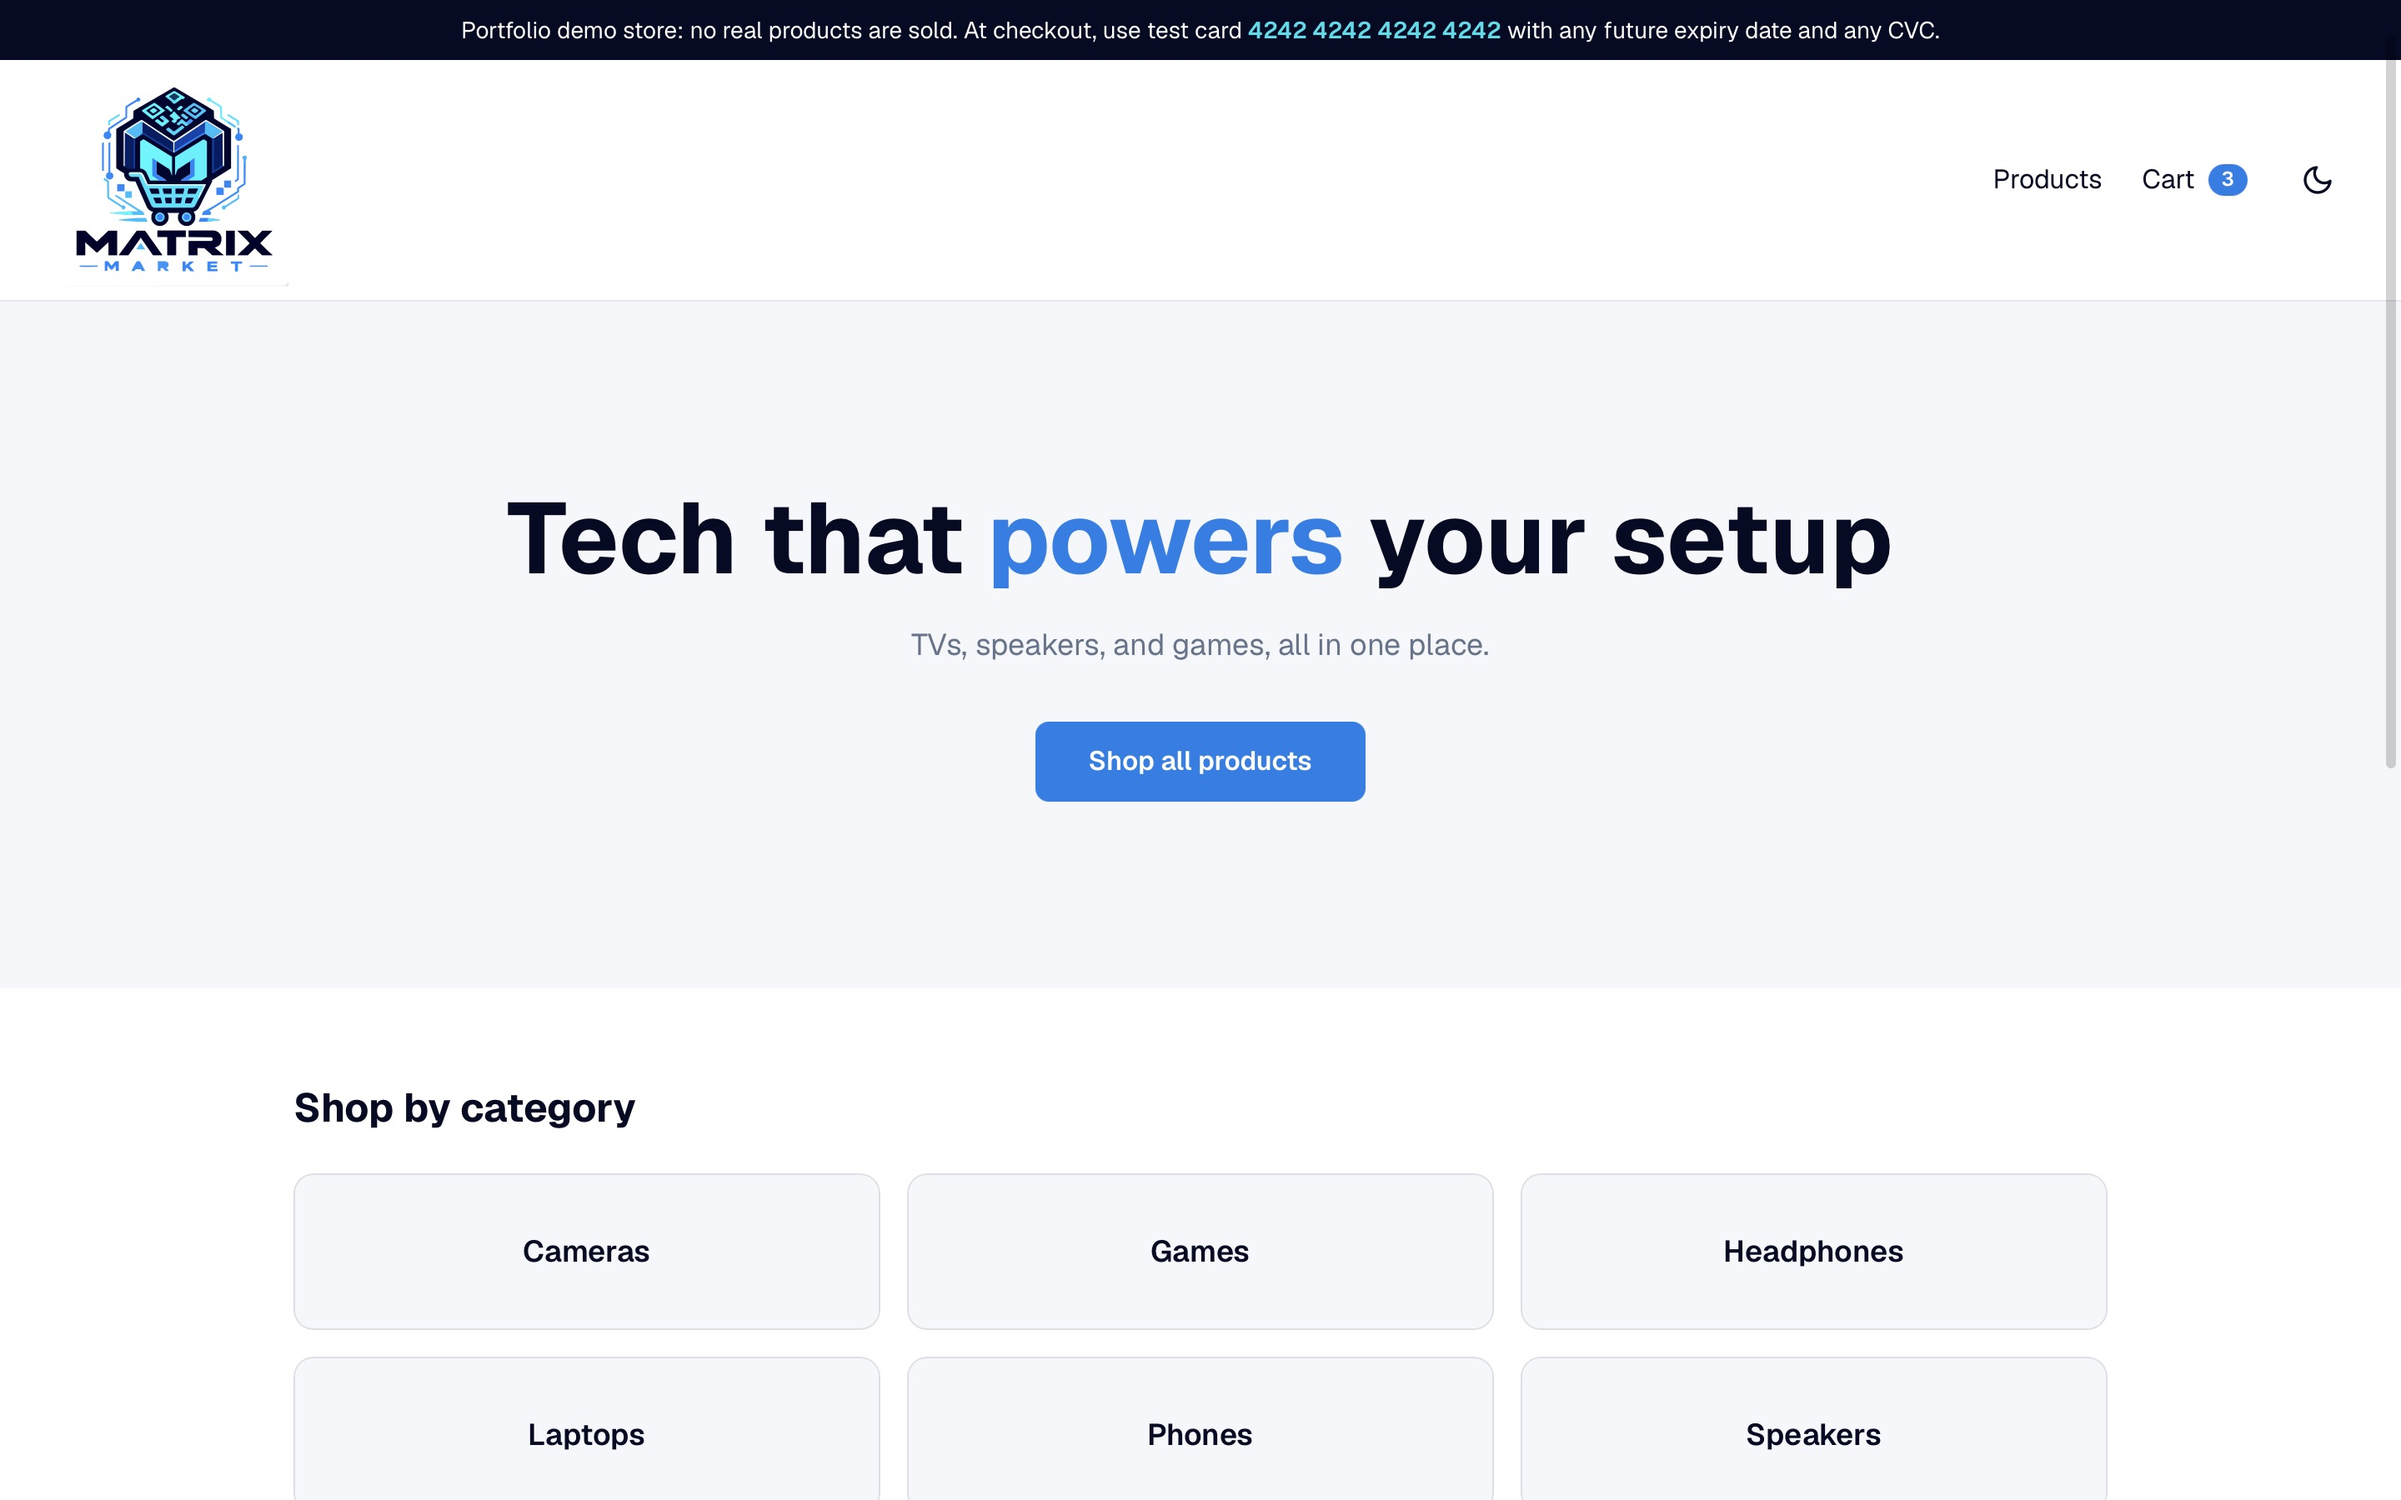
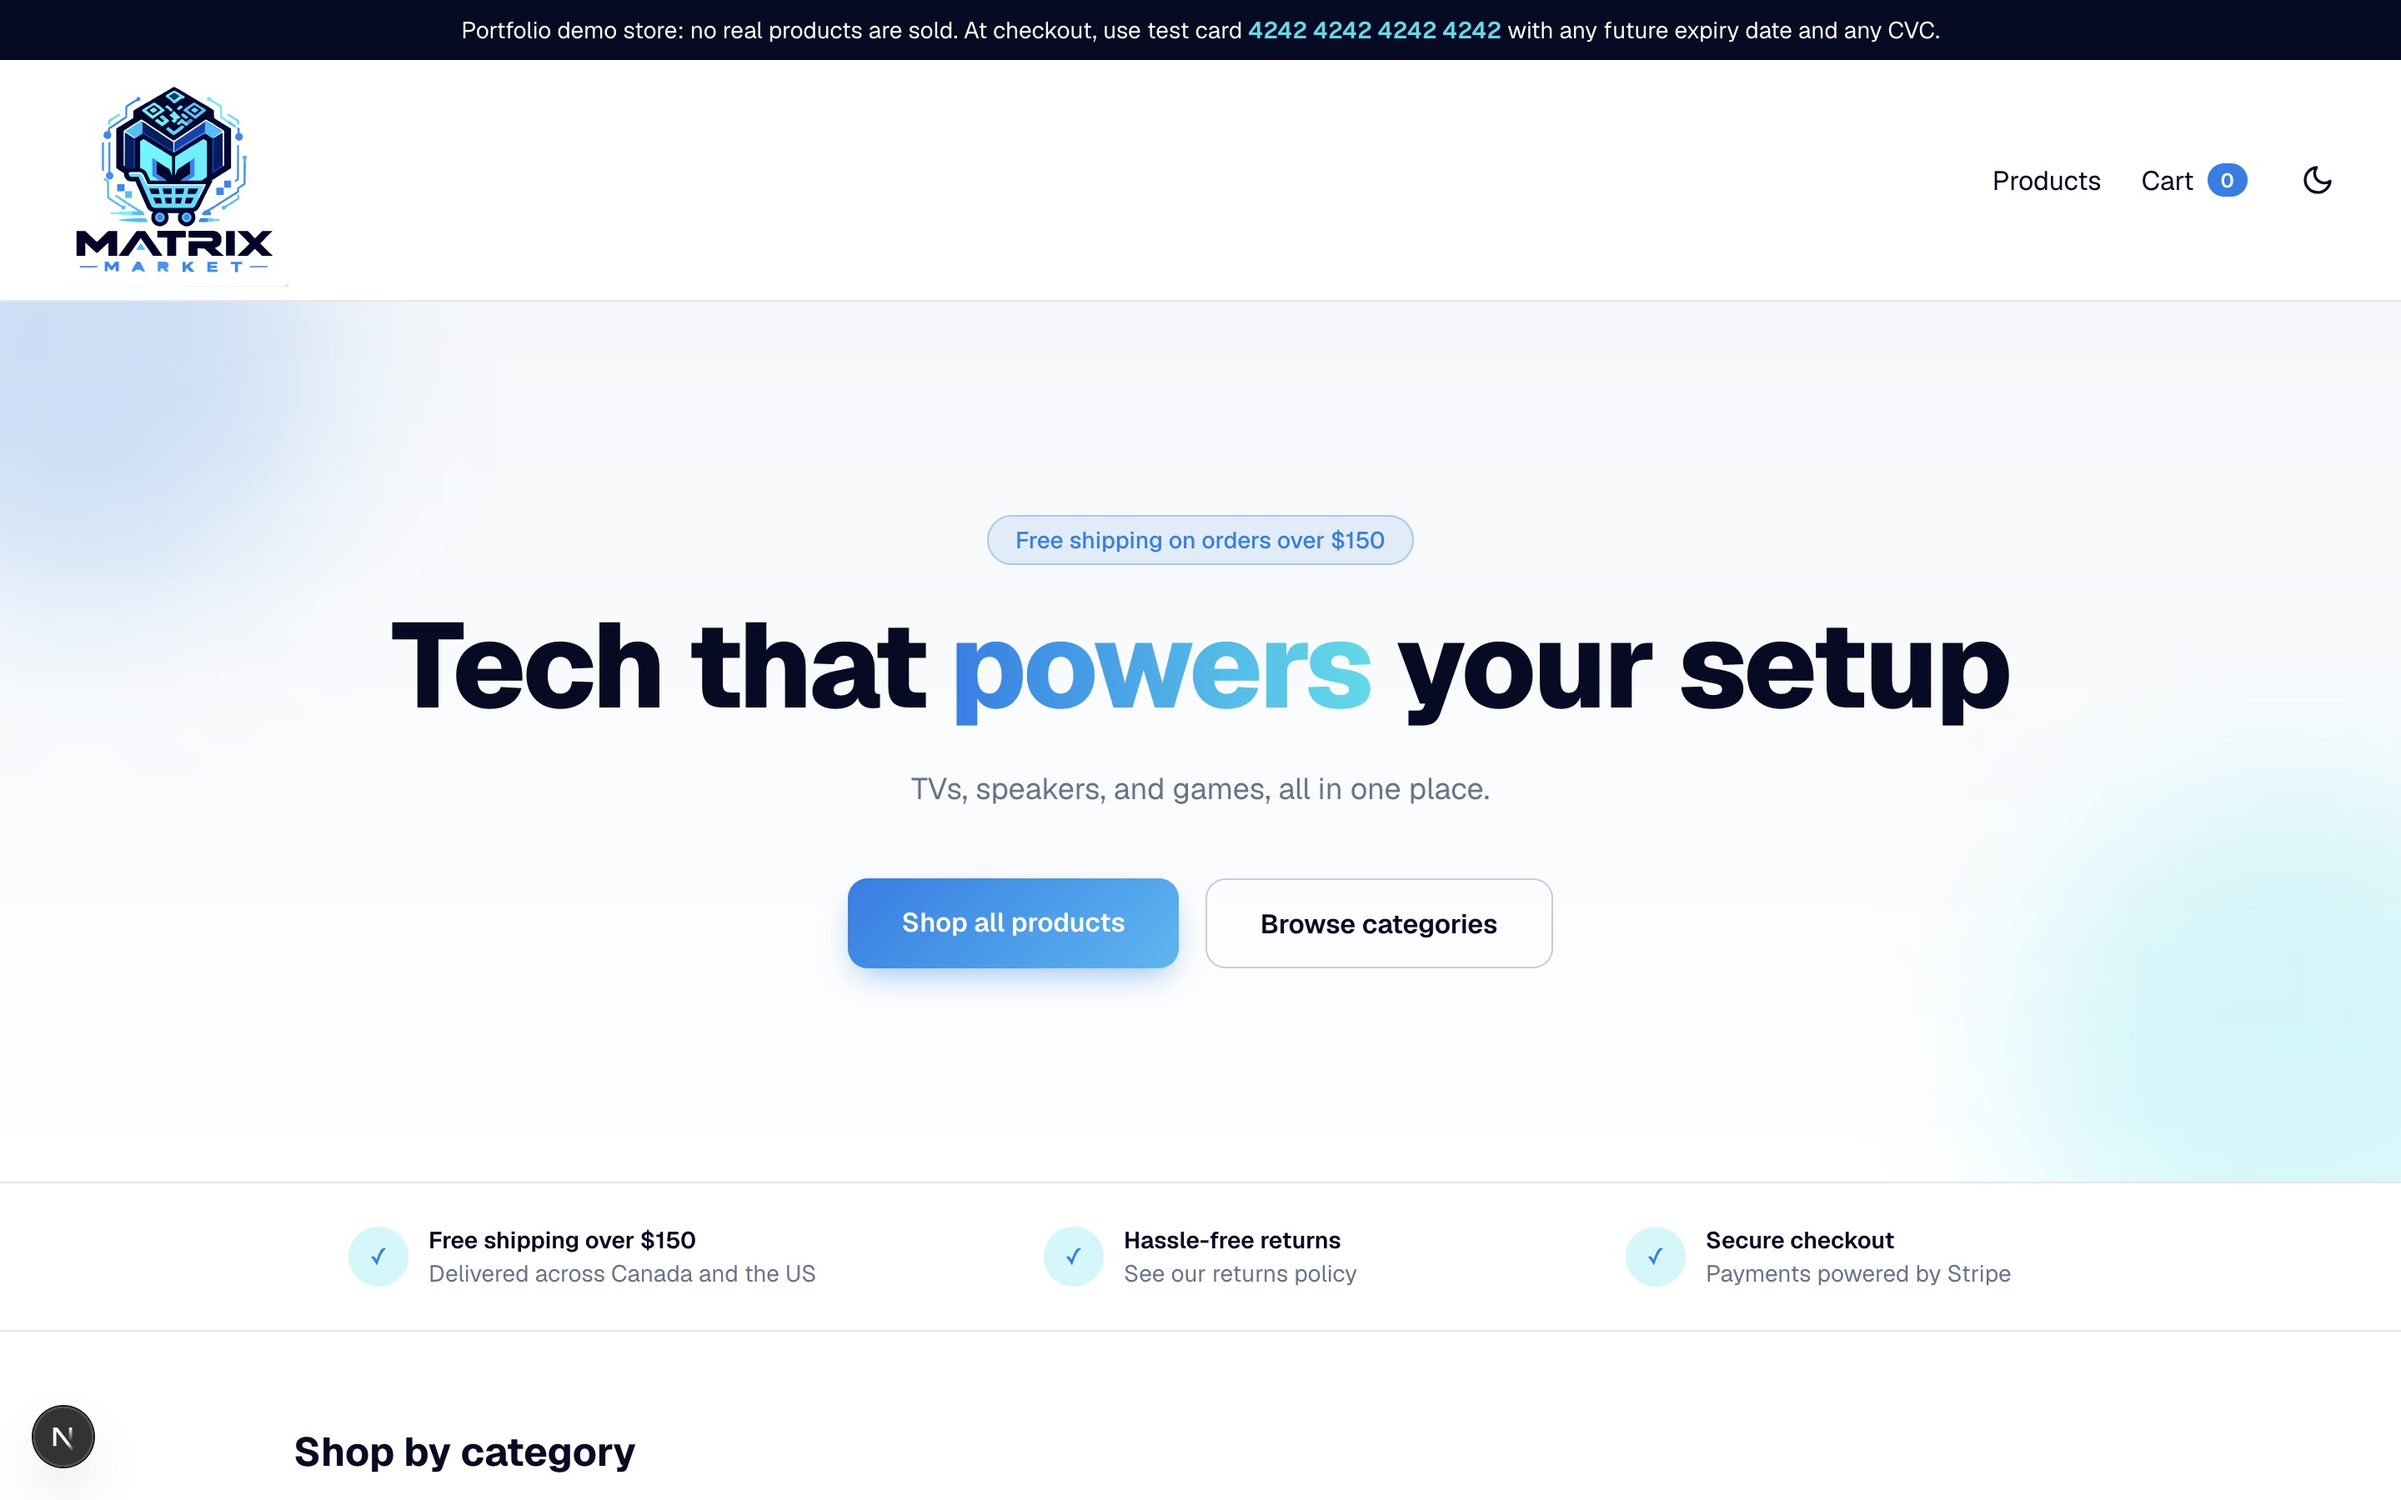
update

diff --git a/src/app/page.tsx b/src/app/page.tsx
@@ -19,33 +19,81 @@ export default async function Home() {
   return (
     <main>
       {/* Hero: big headline and a call-to-action button */}
-      <section className="bg-panel">
-        <div className="mx-auto max-w-6xl px-8 py-20 text-center sm:py-28">
-          <h1 className="text-4xl font-bold text-ink sm:text-6xl">
-            Tech that <span className="text-link">powers</span> your setup
+            {/* Hero: gradient background with soft glowing blobs behind the text */}
+      <section className="relative overflow-hidden bg-gradient-to-b from-panel to-surface">
+        <div className="animate-float absolute -left-24 -top-24 h-72 w-72 rounded-full bg-electric/20 blur-3xl" />
+        <div
+          className="animate-float absolute -bottom-24 -right-24 h-80 w-80 rounded-full bg-aqua/20 blur-3xl"
+          style={{ animationDelay: "-4s" }}
+        />
+        <div className="relative mx-auto max-w-6xl px-8 py-24 text-center sm:py-32">
+          <span className="animate-fade-up inline-block rounded-full border border-electric/30 bg-electric/10 px-4 py-1 text-sm font-medium text-link">
+            Free shipping on orders over $150
+          </span>
+          {/* Delays are inline so each line fades in one after the other */}
+          <h1
+            className="animate-fade-up mt-6 text-5xl font-extrabold tracking-tight text-ink sm:text-7xl"
+            style={{ animationDelay: "100ms" }}
+          >
+            Tech that{" "}
+            <span className="bg-gradient-to-r from-electric to-aqua bg-clip-text text-transparent">
+              powers
+            </span>{" "}
+            your setup
           </h1>
-          <p className="mx-auto mt-5 max-w-xl text-lg text-muted">
+          <p
+            className="animate-fade-up mx-auto mt-6 max-w-xl text-lg text-muted"
+            style={{ animationDelay: "200ms" }}
+          >
             TVs, speakers, and games, all in one place.
           </p>
-          <Link
-            href="/products"
-            className="mt-8 inline-block rounded-lg bg-electric px-8 py-3 font-semibold text-white transition hover:bg-accent-hover"
+          <div
+            className="animate-fade-up mt-10 flex flex-wrap justify-center gap-4"
+            style={{ animationDelay: "300ms" }}
           >
-            Shop all products
-          </Link>
+            <Link href="/products" className="btn-primary rounded-xl px-8 py-3.5">
+              Shop all products
+            </Link>
+            <a
+              href="#categories"
+              className="rounded-xl border border-ink/20 px-8 py-3.5 font-semibold text-ink transition hover:border-electric hover:text-link"
+            >
+              Browse categories
+            </a>
+          </div>
+        </div>
+      </section>
+
+      {/* Trust bar */}
+      <section className="border-y border-ink/10 bg-surface">
+        <div className="mx-auto grid max-w-6xl gap-6 px-8 py-6 text-sm sm:grid-cols-3">
+          {[
+            ["Free shipping over $150", "Delivered across Canada and the US"],
+            ["Hassle-free returns", "See our returns policy"],
+            ["Secure checkout", "Payments powered by Stripe"],
+          ].map(([title, sub]) => (
+            <div key={title} className="flex items-center justify-center gap-3">
+              <span className="flex h-9 w-9 shrink-0 items-center justify-center rounded-full bg-aqua/20 text-link">
+                ✓
+              </span>
+              <div>
+                <p className="font-semibold text-ink">{title}</p>
+                <p className="text-muted">{sub}</p>
+              </div>
+            </div>
+          ))}
         </div>
       </section>
 
       {/* Category tiles: each links to the filtered products page */}
-      <section className="mx-auto max-w-6xl px-8 py-14">
+      <section id="categories" className="mx-auto max-w-6xl px-8 py-14">
         <h2 className="text-2xl font-bold text-ink">Shop by category</h2>
         <div className="mt-6 grid grid-cols-2 gap-4 sm:grid-cols-3">
           {categories.map((c) => (
             <Link
               key={c}
               href={`/products?category=${encodeURIComponent(c)}`}
-              className="rounded-xl border border-ink/10 bg-panel p-8 text-center text-lg font-semibold capitalize text-ink transition hover:border-electric hover:bg-surface hover:text-link"
-            >
+                            className="rounded-2xl border border-ink/10 bg-panel p-8 text-center text-lg font-semibold capitalize text-ink transition duration-300 hover:-translate-y-1 hover:border-electric/50 hover:text-link hover:shadow-xl hover:shadow-electric/10">
               {c}
             </Link>
           ))}
@@ -61,8 +109,10 @@ export default async function Home() {
           </Link>
         </div>
         <div className="mt-6 grid grid-cols-1 gap-6 sm:grid-cols-2 lg:grid-cols-4">
-          {featured.map((p) => (
-            <ProductCard key={p.id} product={p} />
+          {featured.map((p, i) => (
+            <div key={p.id} className="animate-fade-up" style={{ animationDelay: `${i * 100}ms` }}>
+              <ProductCard product={p} />
+            </div>
           ))}
         </div>
       </section>

diff --git a/src/components/ProductCard.tsx b/src/components/ProductCard.tsx
@@ -8,17 +8,28 @@ export default function ProductCard({ product }: { product: Product }) {
     // "group" lets the image react when the whole card is hovered
     <Link
       href={`/products/${product.id}`}
-      className="group block overflow-hidden rounded-xl border border-ink/10 bg-surface transition hover:-translate-y-1 hover:shadow-lg"
+      className="group block overflow-hidden rounded-2xl border border-ink/10 bg-surface transition duration-300 hover:-translate-y-1.5 hover:border-electric/40 hover:shadow-xl hover:shadow-electric/10"
     >
-      {/* Photo area: light gray background, image zooms slightly on hover */}
-      <div className="relative h-48 bg-panel">
+      {/* Photo area with a soft gradient; the image zooms on hover */}
+      <div className="relative h-52 bg-gradient-to-b from-panel to-surface">
+        {/* Badges in the corner */}
+        {product.stock > 0 && product.stock <= 5 && (
+          <span className="absolute left-3 top-3 z-10 rounded-full bg-electric px-3 py-1 text-xs font-semibold text-white shadow-md">
+            Only {product.stock} left
+          </span>
+        )}
+        {product.stock === 0 && (
+          <span className="absolute left-3 top-3 z-10 rounded-full bg-muted px-3 py-1 text-xs font-semibold text-white shadow-md">
+            Sold out
+          </span>
+        )}
         {product.image_url && (
           <Image
             src={product.image_url}
             alt={product.name}
             fill
             sizes="(min-width: 1024px) 25vw, 50vw"
-            className="object-contain p-4 transition group-hover:scale-105"
+            className="object-contain p-5 transition duration-500 group-hover:scale-110"
           />
         )}
       </div>
@@ -30,11 +41,11 @@ export default function ProductCard({ product }: { product: Product }) {
         <h2 className="mt-1 font-semibold text-ink">{product.name}</h2>
         <div className="mt-3 flex items-center justify-between">
           {/* Prices are stored in cents, so divide by 100 for display */}
-          <p className="text-lg font-bold text-ink">
+          <p className="text-xl font-bold text-ink">
             ${(product.price_cents / 100).toFixed(2)}
           </p>
-          <span className={product.stock > 0 ? "text-sm text-link" : "text-sm text-muted"}>
-            {product.stock > 0 ? "In stock" : "Sold out"}
+          <span className="text-sm font-medium text-link opacity-0 transition group-hover:opacity-100">
+            View →
           </span>
         </div>
       </div>

diff --git a/src/app/globals.css b/src/app/globals.css
@@ -55,3 +55,60 @@ textarea {
   background: var(--surface);
   color: var(--ink);
 }
+
+/* Smooth scrolling and brand-colored text selection */
+html {
+  scroll-behavior: smooth;
+}
+::selection {
+  background: rgb(8 127 234 / 0.25);
+}
+
+/* Entrance animation: slides up slightly while fading in */
+@keyframes fade-up {
+  from { opacity: 0; transform: translateY(16px); }
+  to { opacity: 1; transform: translateY(0); }
+}
+@utility animate-fade-up {
+  animation: fade-up 0.6s ease-out both;
+}
+
+/* Slow floating motion for the hero's glowing background blobs */
+@keyframes float {
+  0%, 100% { transform: translateY(0); }
+  50% { transform: translateY(-24px); }
+}
+@utility animate-float {
+  animation: float 8s ease-in-out infinite;
+}
+
+/* Primary button: blue gradient, glow, lifts on hover, presses on click */
+@utility btn-primary {
+  background-image: linear-gradient(135deg, #087fea, #35b8f4);
+  color: #ffffff;
+  font-weight: 600;
+  box-shadow: 0 8px 20px -6px rgb(8 127 234 / 0.5);
+  transition: transform 0.2s, box-shadow 0.2s, filter 0.2s;
+  &:hover {
+    transform: translateY(-2px);
+    box-shadow: 0 12px 28px -6px rgb(8 127 234 / 0.6);
+    filter: brightness(1.05);
+  }
+  &:active {
+    transform: translateY(0) scale(0.98);
+  }
+  &:disabled {
+    opacity: 0.6;
+    transform: none;
+    box-shadow: none;
+  }
+}
+
+/* Respect visitors who turn animations off in their system settings */
+@media (prefers-reduced-motion: reduce) {
+  *, ::before, ::after {
+    animation: none !important;
+    transition: none !important;
+    scroll-behavior: auto !important;
+  }
+}

diff --git a/src/components/Navbar.tsx b/src/components/Navbar.tsx
@@ -11,6 +11,10 @@ export default function Navbar() {
   // Total number of units in the cart
   const count = items.reduce((sum, i) => sum + i.quantity, 0);
 
+    // Underline that grows from the left on hover
+  const underline =
+    "relative after:absolute after:-bottom-1 after:left-0 after:h-0.5 after:w-0 after:bg-electric after:transition-all after:duration-300 hover:after:w-full";
+
     return (
     <nav className="flex items-center justify-between border-b border-ink/10 bg-surface px-8 py-2">
       <Link href="/" aria-label="Matrix Market home">
@@ -18,7 +22,7 @@ export default function Navbar() {
         <Image src="/logo.svg" alt="Matrix Market" width={1024} height={931} priority className="h-32 w-auto" />
       </Link>
       <div className="flex items-center gap-6 text-ink">
-        <Link href="/products" className="hover:text-link">
+        <Link href="/products" className={`hover:text-link ${underline}`}>
           Products
         </Link>
         <Link href="/cart" className="flex items-center gap-2 hover:text-link">

diff --git a/src/app/layout.tsx b/src/app/layout.tsx
@@ -26,6 +26,7 @@ export default function RootLayout({ children }: LayoutProps<"/">) {
     // suppressHydrationWarning: the script below changes the class before React loads
     <html
       lang="en"
+       data-scroll-behavior="smooth"
       className={`${geistSans.variable} ${geistMono.variable} h-full antialiased`}
       suppressHydrationWarning
     >
